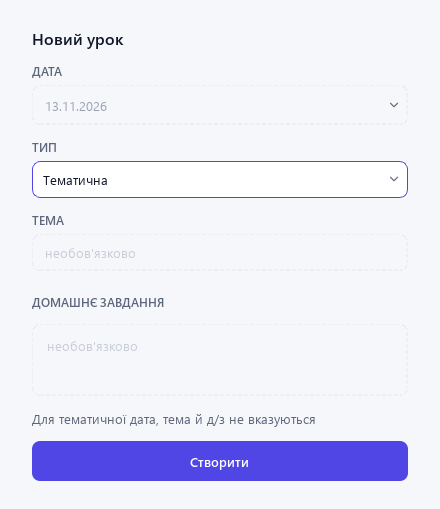
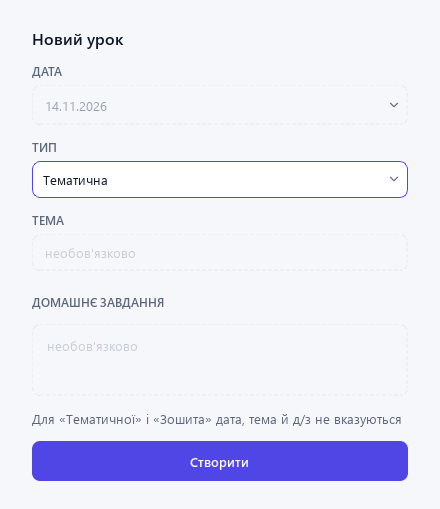
Keep re-anchored columns in their own semester (PR #16 review)
Deleting the first lesson of a semester no longer moves its Тематична/Зошит
into the previous semester (which silently changed semester grades); the
column stays unanchored at the start of its semester. Fake mirrors it.
Regression test verified to fail without the fix. Dialog screenshot refreshed.

Changed region(s): [[0.1477, 0.7957, 0.7386, 0.8546], [0.7682, 0.7957, 0.9159, 0.8546], [0.1182, 0.2063, 0.1477, 0.2358]]

diff --git a/tests/test_journal_grades.py b/tests/test_journal_grades.py
@@ -645,3 +645,21 @@ def test_migration_backfills_anchor_lesson(session, ctx):
     session.refresh(orphan)
     assert col.after_lesson_id == max(a.id, b.id)  # останній урок цієї дати
     assert orphan.after_lesson_id is None
+
+
+def test_delete_first_lesson_of_semester2_keeps_column_in_semester2(ctx, session):
+    """Рецензія Fable (PR #16): стовпчик не «переїжджає» в І семестр і не змінює його оцінок."""
+    from datetime import date
+
+    l1 = ctx.svc.create_lesson(ctx.t.id, ctx.j.id, date(2026, 12, 1))   # І семестр
+    l2 = ctx.svc.create_lesson(ctx.t.id, ctx.j.id, date(2027, 1, 12))   # ІІ семестр
+    t = ctx.svc.create_column(ctx.t.id, ctx.j.id, "thematic", l2.id)
+    ctx.svc.set_override(ctx.t.id, ctx.j.id, ctx.s, ("thematic", t.id), 4)
+    before = ctx.svc.student_computed(ctx.t.id, ctx.j.id, ctx.s)
+    ctx.svc.delete_lesson(ctx.t.id, l2.id)
+    column = session.get(ExtraColumn, t.id)
+    assert column.semester == 2 and column.after_lesson_id is None
+    after = ctx.svc.student_computed(ctx.t.id, ctx.j.id, ctx.s)
+    assert after[("semester", 1)] == before[("semester", 1)]
+    assert after[("semester", 2)].value == 4
+    assert l1.id  # урок І семестру не зачеплено

diff --git a/src/journal/services/journal_service.py b/src/journal/services/journal_service.py
@@ -283,6 +283,10 @@ class JournalService:
         ordered = self.repo.all_lessons(lesson.journal_id)
         index = next(i for i, x in enumerate(ordered) if x.id == lesson.id)
         previous = ordered[index - 1] if index else None
+        # Лише попередній урок ТОГО САМОГО семестру: інакше стовпчик «переїхав» би в інший
+        # семестр і тихо змінив семестрові оцінки (рецензія Fable, PR #16).
+        if previous is not None and previous.semester != lesson.semester:
+            previous = None
         counts = self.repo.extra_grade_counts(lesson.journal_id)
         duplicates = set()
         if previous is not None:

diff --git a/tests/fakes/fake_journal_service.py b/tests/fakes/fake_journal_service.py
@@ -383,6 +383,9 @@ class FakeJournalService:
         ordered = sorted(self.lessons, key=self._lesson_key)
         index = ordered.index(row)
         previous = ordered[index - 1] if index else None
+        # як у сервісі: лише попередній урок того самого семестру
+        if previous is not None and self._semester_of(previous) != self._semester_of(row):
+            previous = None
         attached = [c for c in self.columns if c["after"] == lesson_id]
         if previous is not None:
             for column in list(attached):
